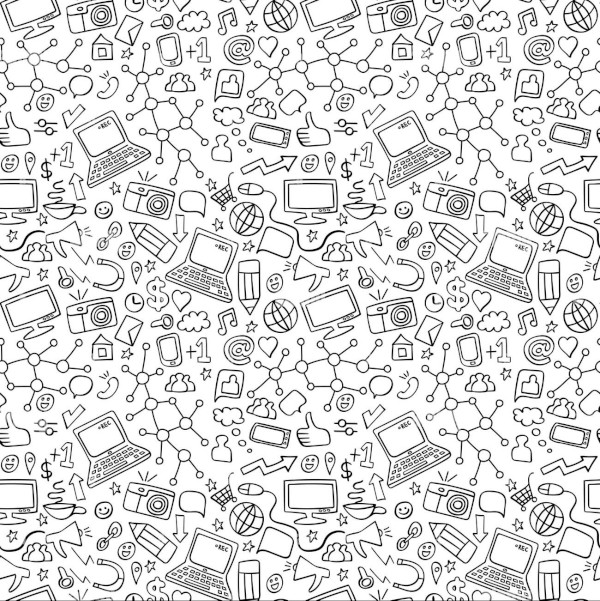
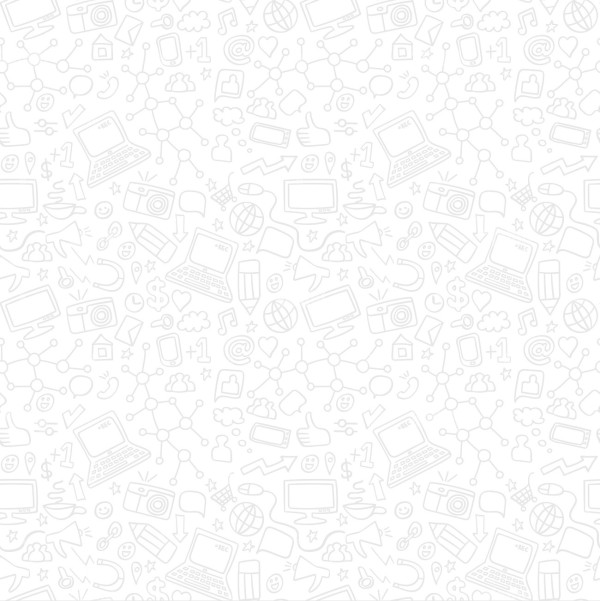
.

Changed region(s): [[0.0, 0.0, 1.0, 1.0]]

diff --git a/index.html b/index.html
@@ -130,7 +130,7 @@
   </style>
 </head>
 
-<body>
+<body style="background-image: url('fondo.jpg');">
 
   <div class="panel" style="display: block;">
 
